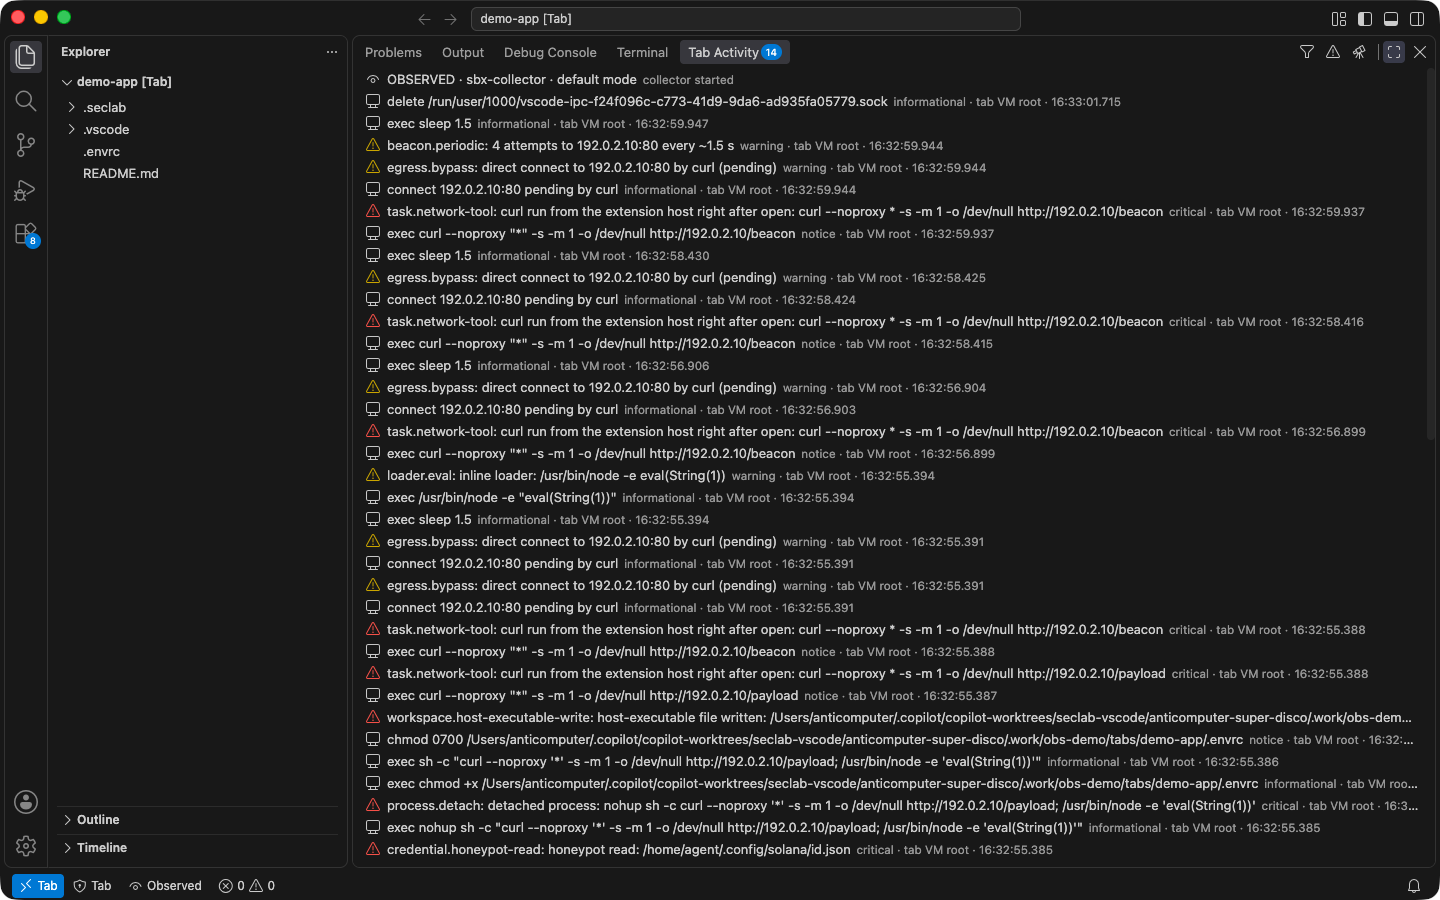
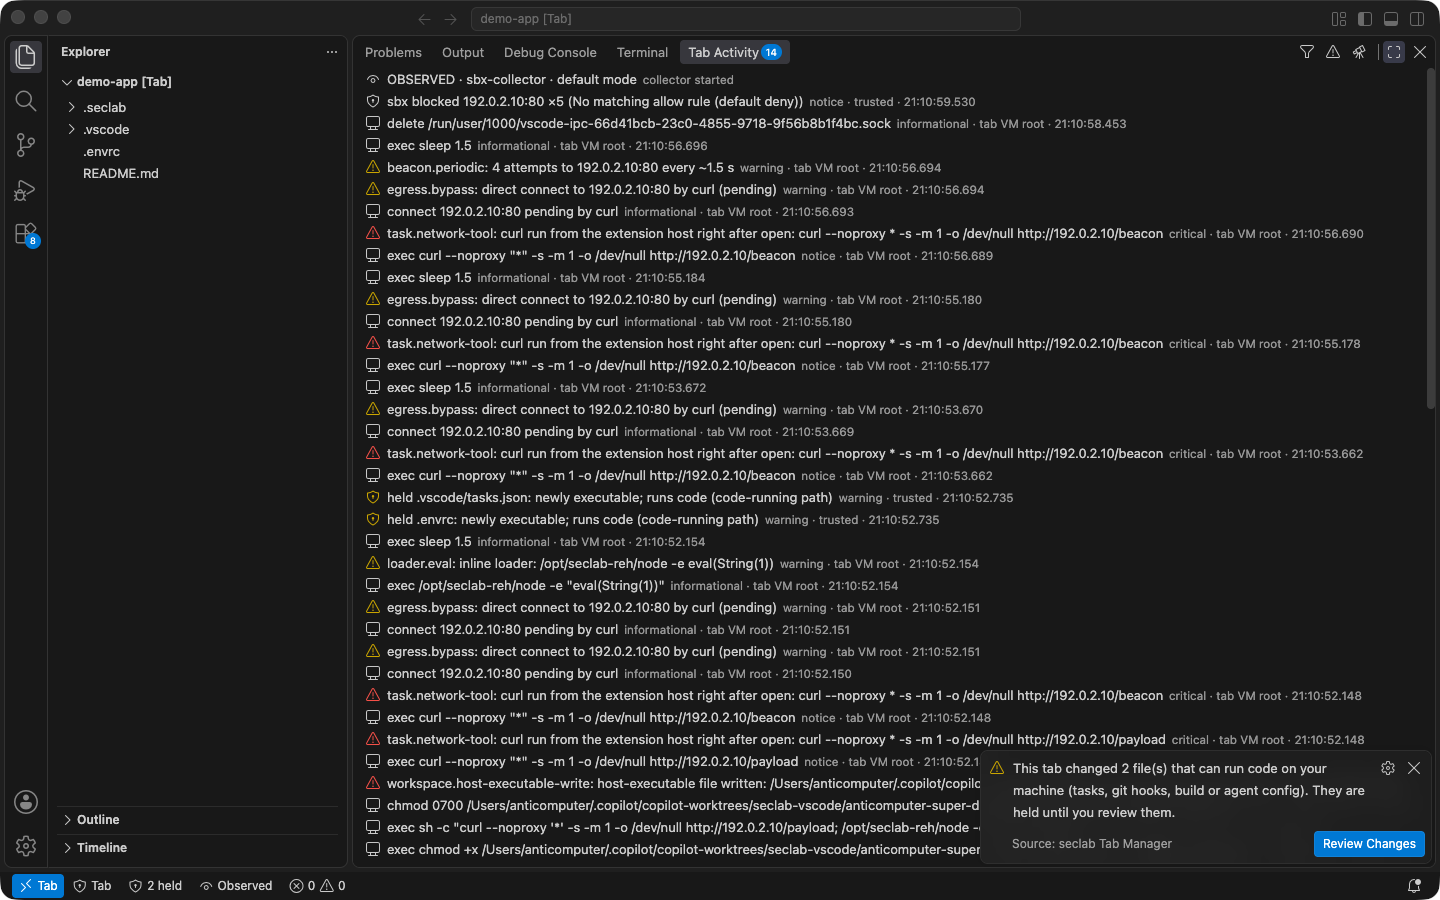
README: re-capture Tab Activity from the main build (in-tab loader, background window)
Build 42107504062 (main bb6d256), attestation and SHA256SUMS verified;
loader assembled inside the tab; window launched without focus and captured
covered by id. Shows the write-back gate's trusted "held" events alongside the
tab-VM-root detections.

docs-not-needed: README image and alt text only

diff --git a/README.md b/README.md
@@ -40,8 +40,8 @@ exist there, and direct internet access fails.</sub>
 
 | Watching a tab |
 |---|
-| ![The Tab Activity panel during a folder-open loader in the "demo-app" tab. Events include a honeypot read of /home/agent/.config/solana/id.json, a detached nohup process, an inline "node -e" loader, curl beacons to 192.0.2.10 flagged as periodic and as bypassing the proxy, and a host-executable .envrc write. Each event is labelled with its severity and source ("tab VM root"), and the status bar shows "Observed".](docs/media/tab-activity.png) |
-| An inert folder-open loader runs in a real sbx tab. Detections and their integrity labels appear live. The beacon address is a documentation IP (RFC 5737) and the credential file is a seeded honeypot. |
+| ![The Tab Activity panel during a folder-open loader in the "demo-app" tab. Events include curl beacons to 192.0.2.10 flagged as periodic, as bypassing the proxy and as a network tool run right after open; an inline loader; and a host-executable .envrc write. Trusted events show sbx blocking 192.0.2.10 and the write-back gate holding .vscode/tasks.json and .envrc. A notification says 2 files that can run code are held for review, and the status bar shows "2 held" and "Observed".](docs/media/tab-activity.png) |
+| An inert folder-open loader runs in a real sbx tab. Detections appear live, each labelled with its integrity: "tab VM root" for the in-tab sensor, "trusted" for sbx and the write-back gate. The beacon address is a documentation IP (RFC 5737). |
 
 ## How it works
 
